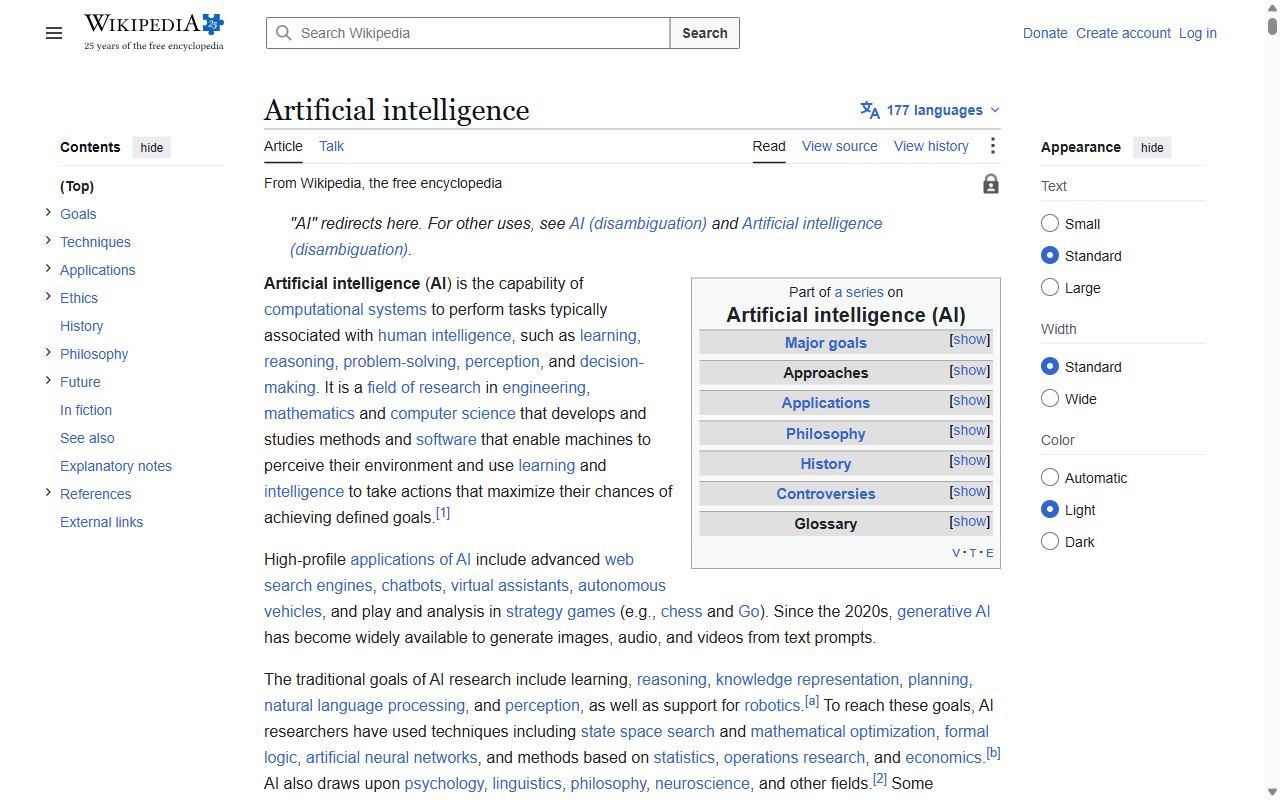
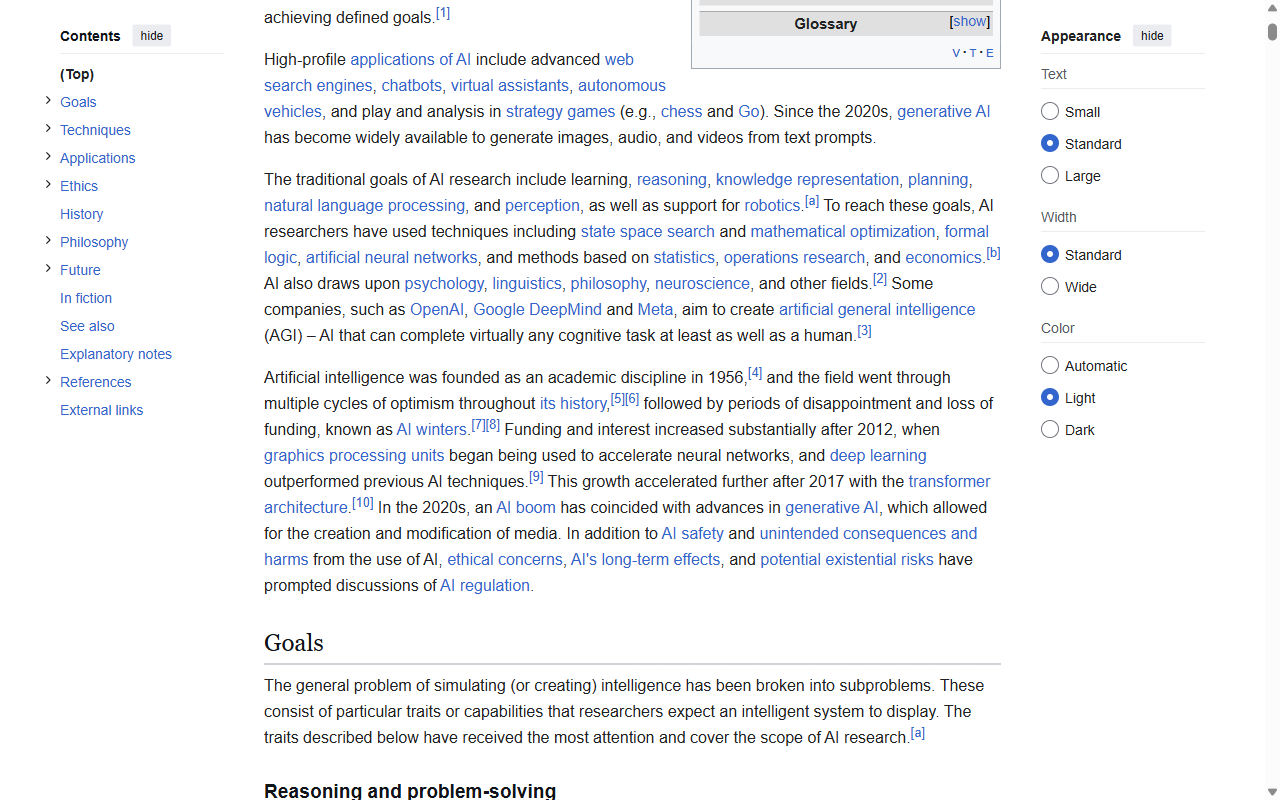
Phase 1: error recovery + retries confirmed working

diff --git a/nova/agent.py b/nova/agent.py
@@ -36,7 +36,8 @@ accomplish the user's goal, one action at a time.
 You will be shown:
 - GOAL: what the user wants accomplished
 - HISTORY: actions already taken and their results
-- PAGE: the current page's title, url, and a numbered list of interactive elements
+- PAGE: the current page's title, url, a short text snippet of what's
+  visible on the page, and a numbered list of interactive elements
 
 You must reply with EXACTLY ONE JSON object and nothing else. No explanation,
 no markdown fences, no extra text. Valid actions:
@@ -48,8 +49,13 @@ no markdown fences, no extra text. Valid actions:
 {"action": "done", "result": "<short summary of what was accomplished>"}
 
 Rules:
+- Before deciding, check the PAGE's text snippet and heading against the
+  GOAL and HISTORY. If the visible content already shows the goal has been
+  achieved (e.g. you searched for a topic and the page's heading/text now
+  matches that topic), respond with "done" — do NOT repeat the search or
+  click search again just because a search box is visible. A search box
+  being present does not mean the task is unfinished.
 - Only reference element ids that appear in the current PAGE listing.
-- If the goal is already accomplished, respond with the "done" action.
 - If you're unsure what to do next, prefer "scroll" to reveal more of the page
   rather than guessing at an id that doesn't exist.
 - Keep "done" results short and factual — this is shown directly to the user.
@@ -99,32 +105,64 @@ elements:
             return {"action": "done", "result": "Stopped: could not parse a valid next action."}
 
     def _execute(self, decision: dict, elements) -> str:
-        """Execute one decision, return a short text log entry for history."""
+        """
+        Execute one decision, return a short text log entry for history.
+        Wrapped in retries + exception handling so a single flaky action
+        (element not ready, page still loading, element vanished) doesn't
+        crash the whole agent run — it just gets logged and the loop
+        continues, letting the LLM see the failure and adapt.
+        """
         action = decision.get("action")
+        max_retries = 2
+        retry_delay_ms = 800
+
+        def with_retries(fn, description: str) -> str:
+            last_error = None
+            for attempt in range(1, max_retries + 1):
+                try:
+                    return fn()
+                except Exception as e:
+                    last_error = e
+                    print(f"[NovaAgent] Attempt {attempt}/{max_retries} failed "
+                          f"for {description}: {e}")
+                    if attempt < max_retries:
+                        self.browser.page.wait_for_timeout(retry_delay_ms)
+            return f"{description} failed after {max_retries} attempts: {last_error}"
 
         if action == "click":
             el = next((e for e in elements if e.id == decision.get("id")), None)
             if not el:
                 return f"click failed: no element with id {decision.get('id')}"
-            el.locator.click()
-            return f"clicked [{el.id}] {el.text or el.attrs}"
+
+            def do_click():
+                el.locator.click(timeout=5000)
+                return f"clicked [{el.id}] {el.text or el.attrs}"
+            return with_retries(do_click, f"click [{el.id}]")
 
         if action == "type":
             el = next((e for e in elements if e.id == decision.get("id")), None)
             if not el:
                 return f"type failed: no element with id {decision.get('id')}"
-            el.locator.fill(decision.get("text", ""))
-            if decision.get("press_enter"):
-                self.browser.page.keyboard.press("Enter")
-            return f"typed into [{el.id}] {el.text or el.attrs}: {decision.get('text', '')!r}"
+
+            def do_type():
+                el.locator.fill(decision.get("text", ""), timeout=5000)
+                if decision.get("press_enter"):
+                    self.browser.page.keyboard.press("Enter")
+                return f"typed into [{el.id}] {el.text or el.attrs}: {decision.get('text', '')!r}"
+            return with_retries(do_type, f"type into [{el.id}]")
 
         if action == "goto":
-            self.browser.goto(decision.get("url", ""))
-            return f"navigated to {decision.get('url', '')}"
+            def do_goto():
+                self.browser.goto(decision.get("url", ""))
+                return f"navigated to {decision.get('url', '')}"
+            return with_retries(do_goto, f"goto {decision.get('url', '')}")
 
         if action == "scroll":
-            self.browser.scroll_down()
-            return "scrolled down"
+            try:
+                self.browser.scroll_down()
+                return "scrolled down"
+            except Exception as e:
+                return f"scroll failed: {e}"
 
         if action == "done":
             return f"done: {decision.get('result', '')}"
@@ -136,159 +174,24 @@ elements:
         print(f"\n[NovaAgent] Goal: {goal}\n")
 
         for step in range(1, self.max_steps + 1):
-            summary, elements = get_page_summary(self.browser.page)
-            decision = self._ask_llm(goal, summary)
-            print(f"[Step {step}] Decision: {decision}")
+            try:
+                summary, elements = get_page_summary(self.browser.page)
+            except Exception as e:
+                log_entry = f"perception failed: {e}"
+                print(f"[Step {step}] {log_entry}")
+                self.history.append(f"Step {step}: {log_entry}")
+                self.browser.page.wait_for_timeout(1000)
+                continue
 
-            log_entry = self._execute(decision, elements)
-            self.history.append(f"Step {step}: {log_entry}")
-            print(f"[Step {step}] Result: {log_entry}\n")
+            try:
+                decision = self._ask_llm(goal, summary)
+            except Exception as e:
+                log_entry = f"LLM call failed: {e}"
+                print(f"[Step {step}] {log_entry}")
+                self.history.append(f"Step {step}: {log_entry}")
+                self.browser.page.wait_for_timeout(1000)
+                continue
 
-            if decision.get("action") == "done":
-                return decision.get("result", "Task completed.")
-
-            self.browser.page.wait_for_timeout(1000)
-
-        return "Stopped: reached max_steps without the agent declaring done.""""
-nova/agent.py
-
-The brain. This is where Cerebras enters the picture for the first time.
-
-The loop, every step:
-  1. Look at the current page (perception.py) -> compact element list
-  2. Send {goal, history, element list} to the LLM
-  3. LLM replies with ONE structured action as JSON
-  4. We execute that action via NovaBrowser
-  5. Repeat until the LLM says "done" or we hit max_steps
-
-Action schema the LLM must reply with (and ONLY this, no prose):
-  {"action": "click", "id": 3}
-  {"action": "type", "id": 5, "text": "hello", "press_enter": true}
-  {"action": "goto", "url": "https://..."}
-  {"action": "scroll"}
-  {"action": "done", "result": "short summary of what was accomplished"}
-"""
-
-import os
-import json
-from dotenv import load_dotenv
-from cerebras.cloud.sdk import Cerebras
-
-from nova.browser import NovaBrowser
-from nova.perception import get_page_summary
-
-load_dotenv()
-
-MODEL = "gpt-oss-120b"  # confirmed available via /v1/models for this account
-
-SYSTEM_PROMPT = """You are Nova, an AI browser agent. You control a web browser to
-accomplish the user's goal, one action at a time.
-
-You will be shown:
-- GOAL: what the user wants accomplished
-- HISTORY: actions already taken and their results
-- PAGE: the current page's title, url, and a numbered list of interactive elements
-
-You must reply with EXACTLY ONE JSON object and nothing else. No explanation,
-no markdown fences, no extra text. Valid actions:
-
-{"action": "click", "id": <element id>}
-{"action": "type", "id": <element id>, "text": "<text to type>", "press_enter": <true|false>}
-{"action": "goto", "url": "<full url>"}
-{"action": "scroll"}
-{"action": "done", "result": "<short summary of what was accomplished>"}
-
-Rules:
-- Only reference element ids that appear in the current PAGE listing.
-- If the goal is already accomplished, respond with the "done" action.
-- If you're unsure what to do next, prefer "scroll" to reveal more of the page
-  rather than guessing at an id that doesn't exist.
-- Keep "done" results short and factual — this is shown directly to the user.
-"""
-
-
-class NovaAgent:
-    def __init__(self, browser: NovaBrowser, max_steps: int = 15):
-        self.browser = browser
-        self.max_steps = max_steps
-        self.client = Cerebras(api_key=os.environ.get("CEREBRAS_API_KEY"))
-        self.history: list[str] = []
-
-    def _build_user_message(self, goal: str, summary: str) -> str:
-        history_text = "\n".join(self.history) if self.history else "(no actions yet)"
-        return f"""GOAL: {goal}
-
-HISTORY:
-{history_text}
-
-PAGE:
-title: {self.browser.get_title()}
-url: {self.browser.get_url()}
-elements:
-{summary}
-"""
-
-    def _ask_llm(self, goal: str, summary: str) -> dict:
-        user_msg = self._build_user_message(goal, summary)
-        response = self.client.chat.completions.create(
-            model=MODEL,
-            messages=[
-                {"role": "system", "content": SYSTEM_PROMPT},
-                {"role": "user", "content": user_msg},
-            ],
-        )
-        raw = response.choices[0].message.content.strip()
-        # be defensive: strip accidental markdown fences if the model adds them
-        if raw.startswith("```"):
-            raw = raw.strip("`")
-            if raw.startswith("json"):
-                raw = raw[4:]
-        try:
-            return json.loads(raw)
-        except json.JSONDecodeError:
-            print(f"[NovaAgent] Failed to parse LLM response as JSON:\n{raw}")
-            return {"action": "done", "result": "Stopped: could not parse a valid next action."}
-
-    def _execute(self, decision: dict, elements) -> str:
-        """Execute one decision, return a short text log entry for history."""
-        action = decision.get("action")
-
-        if action == "click":
-            el = next((e for e in elements if e.id == decision.get("id")), None)
-            if not el:
-                return f"click failed: no element with id {decision.get('id')}"
-            el.locator.click()
-            return f"clicked [{el.id}] {el.text or el.attrs}"
-
-        if action == "type":
-            el = next((e for e in elements if e.id == decision.get("id")), None)
-            if not el:
-                return f"type failed: no element with id {decision.get('id')}"
-            el.locator.fill(decision.get("text", ""))
-            if decision.get("press_enter"):
-                self.browser.page.keyboard.press("Enter")
-            return f"typed into [{el.id}] {el.text or el.attrs}: {decision.get('text', '')!r}"
-
-        if action == "goto":
-            self.browser.goto(decision.get("url", ""))
-            return f"navigated to {decision.get('url', '')}"
-
-        if action == "scroll":
-            self.browser.scroll_down()
-            return "scrolled down"
-
-        if action == "done":
-            return f"done: {decision.get('result', '')}"
-
-        return f"unknown action: {action}"
-
-    def run(self, goal: str) -> str:
-        """Run the agent loop until 'done' or max_steps is reached."""
-        print(f"\n[NovaAgent] Goal: {goal}\n")
-
-        for step in range(1, self.max_steps + 1):
-            summary, elements = get_page_summary(self.browser.page)
-            decision = self._ask_llm(goal, summary)
             print(f"[Step {step}] Decision: {decision}")
 
             log_entry = self._execute(decision, elements)